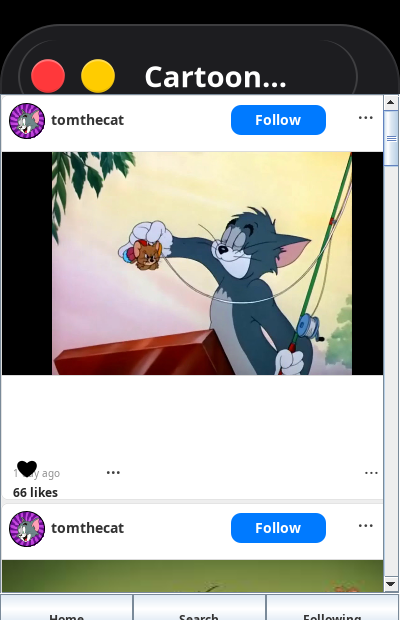
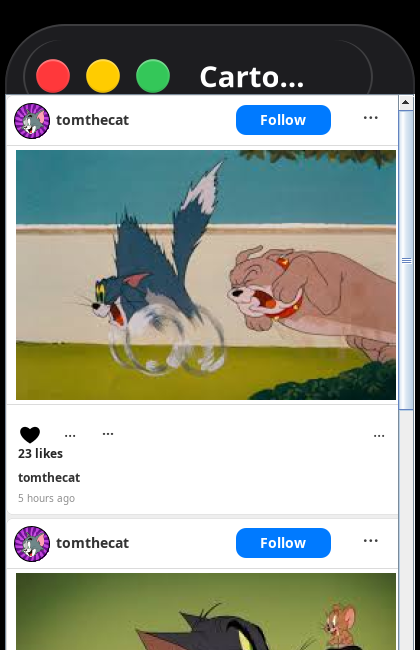
fix: dynamic button positioning, fix image overlap, convert fake PNGs to JPEG, clean resize

diff --git a/src/pk1/ProfilePanel.java b/src/pk1/ProfilePanel.java
@@ -21,7 +21,7 @@ public class ProfilePanel extends JPanel {
         this.likeCount = rng.nextInt(200) + 5;
 
         setLayout(null);
-        setPreferredSize(new Dimension(400, 405));
+        setPreferredSize(new Dimension(400, 420));
         setBackground(new Color(255, 255, 255, 0));
 
         ProfileLabel profileLabel = new ProfileLabel(characterName, profileImagePath);
@@ -49,44 +49,15 @@ public class ProfilePanel extends JPanel {
         followSubject.attach(follower);
 
         LikeButton likeButton = new LikeButton();
-        likeButton.setBounds(8, 352, 36, 36);
+
+        photoLabel = new PhotoLabel(photoText, postImagePath, likeButton);
+        photoLabel.setBounds(0, 50, 400, 260);
+        add(photoLabel);
+
+        int btnY = 320;
+
+        likeButton.setBounds(8, btnY, 32, 32);
         add(likeButton);
-
-        JButton commentIconBtn = new JButton("\uD83D\uDCAC");
-        commentIconBtn.setFont(new Font("Segoe UI Emoji", Font.PLAIN, 18));
-        commentIconBtn.setBounds(52, 354, 36, 36);
-        commentIconBtn.setFocusPainted(false);
-        commentIconBtn.setBorderPainted(false);
-        commentIconBtn.setContentAreaFilled(false);
-        commentIconBtn.addActionListener(e -> toggleCommentSection());
-        add(commentIconBtn);
-
-        JButton shareBtn = new JButton("\u27A8");
-        shareBtn.setFont(new Font("Arial", Font.BOLD, 16));
-        shareBtn.setBounds(94, 354, 36, 36);
-        shareBtn.setFocusPainted(false);
-        shareBtn.setBorderPainted(false);
-        shareBtn.setContentAreaFilled(false);
-        shareBtn.setForeground(Color.DARK_GRAY);
-        add(shareBtn);
-
-        JButton bookmarkBtn = new JButton("\u2661");
-        bookmarkBtn.setFont(new Font("Arial", Font.PLAIN, 18));
-        bookmarkBtn.setBounds(350, 354, 40, 36);
-        bookmarkBtn.setFocusPainted(false);
-        bookmarkBtn.setBorderPainted(false);
-        bookmarkBtn.setContentAreaFilled(false);
-        bookmarkBtn.setForeground(Color.DARK_GRAY);
-        bookmarkBtn.addActionListener(e -> {
-            bookmarkBtn.setText(bookmarkBtn.getText().equals("\u2661") ? "\u2665" : "\u2661");
-        });
-        add(bookmarkBtn);
-
-        likesLabel = new JLabel(likeCount + " likes");
-        likesLabel.setFont(new Font("Arial", Font.BOLD, 12));
-        likesLabel.setBounds(12, 388, 200, 18);
-        likesLabel.setForeground(new Color(38, 38, 38));
-        add(likesLabel);
 
         likeButton.addActionListener(e -> {
             if (likeButton.isLiked()) {
@@ -97,19 +68,52 @@ public class ProfilePanel extends JPanel {
             likesLabel.setText(likeCount + " likes");
         });
 
-        photoLabel = new PhotoLabel(photoText, postImagePath, likeButton);
-        photoLabel.setBounds(0, 50, 400, 290);
-        add(photoLabel);
+        JButton commentIconBtn = new JButton("\uD83D\uDCAC");
+        commentIconBtn.setFont(new Font("Segoe UI Emoji", Font.PLAIN, 16));
+        commentIconBtn.setBounds(48, btnY - 1, 32, 32);
+        commentIconBtn.setFocusPainted(false);
+        commentIconBtn.setBorderPainted(false);
+        commentIconBtn.setContentAreaFilled(false);
+        commentIconBtn.addActionListener(e -> toggleCommentSection());
+        add(commentIconBtn);
+
+        JButton shareBtn = new JButton("\u27A8");
+        shareBtn.setFont(new Font("Arial", Font.BOLD, 14));
+        shareBtn.setBounds(86, btnY - 1, 32, 32);
+        shareBtn.setFocusPainted(false);
+        shareBtn.setBorderPainted(false);
+        shareBtn.setContentAreaFilled(false);
+        shareBtn.setForeground(Color.DARK_GRAY);
+        add(shareBtn);
+
+        JButton bookmarkBtn = new JButton("\u2661");
+        bookmarkBtn.setFont(new Font("Arial", Font.PLAIN, 16));
+        bookmarkBtn.setBounds(355, btnY - 1, 36, 32);
+        bookmarkBtn.setFocusPainted(false);
+        bookmarkBtn.setBorderPainted(false);
+        bookmarkBtn.setContentAreaFilled(false);
+        bookmarkBtn.setForeground(Color.DARK_GRAY);
+        bookmarkBtn.addActionListener(e -> {
+            bookmarkBtn.setText(bookmarkBtn.getText().equals("\u2661") ? "\u2665" : "\u2661");
+        });
+        add(bookmarkBtn);
+
+        int infoY = btnY + 30;
+        likesLabel = new JLabel(likeCount + " likes");
+        likesLabel.setFont(new Font("Arial", Font.BOLD, 12));
+        likesLabel.setBounds(12, infoY, 200, 16);
+        likesLabel.setForeground(new Color(38, 38, 38));
+        add(likesLabel);
 
         JLabel captionLabel = new JLabel("<html><b>" + userName + "</b> " + captionText + "</html>");
         captionLabel.setFont(new Font("Arial", Font.PLAIN, 12));
-        captionLabel.setBounds(12, 395, 370, 32);
+        captionLabel.setBounds(12, infoY + 18, 370, 28);
         add(captionLabel);
 
         JLabel timestamp = new JLabel(getRandomTimestamp());
         timestamp.setFont(new Font("Arial", Font.PLAIN, 10));
         timestamp.setForeground(new Color(142, 142, 142));
-        timestamp.setBounds(12, 370, 200, 16);
+        timestamp.setBounds(12, infoY + 46, 200, 14);
         add(timestamp);
 
         commentSection = new CommentSection();
@@ -121,14 +125,6 @@ public class ProfilePanel extends JPanel {
     private String getRandomTimestamp() {
         String[] times = {"2 minutes ago", "15 minutes ago", "1 hour ago", "3 hours ago", "5 hours ago", "8 hours ago", "12 hours ago", "1 day ago"};
         return times[rng.nextInt(times.length)];
-    }
-
-    @Override
-    public void setBounds(int x, int y, int width, int height) {
-        super.setBounds(x, y, width, height);
-        if (photoLabel != null) {
-            photoLabel.updateBounds(width);
-        }
     }
 
     private void toggleCommentSection() {

diff --git a/src/pk1/PhotoLabel.java b/src/pk1/PhotoLabel.java
@@ -9,35 +9,31 @@ import javax.imageio.ImageIO;
 
 public class PhotoLabel extends JLabel {
     private static final long serialVersionUID = 1L;
-    private static final String DEFAULT_IMAGE_PATH = "C:\\path\\to\\placeholder.jpg";
-    private String photoPath;
-    private String photoText;
-    private LikeButton likeButton;
-    private BufferedImage originalImage;
 
     public PhotoLabel(String photoText, String photoPath, LikeButton likeButton) {
-        this.photoText = photoText;
-        this.photoPath = photoPath;
-        this.likeButton = likeButton;
-
+        boolean loaded = false;
         if (photoPath != null) {
             try {
                 File file = new File(photoPath);
                 if (file.exists()) {
-                    originalImage = ImageIO.read(file);
-                } else {
-                    System.err.println("Image not found at path: " + photoPath);
-                    loadDefaultImage();
+                    BufferedImage img = ImageIO.read(file);
+                    if (img != null) {
+                        Image scaled = img.getScaledInstance(380, 250, Image.SCALE_SMOOTH);
+                        setIcon(new ImageIcon(scaled));
+                        loaded = true;
+                    }
                 }
             } catch (IOException e) {
-                System.err.println("Error loading image at path: " + photoPath);
-                e.printStackTrace();
-                loadDefaultImage();
+                // fall through to text
             }
-        } else {
-            loadDefaultImage();
+        }
+        if (!loaded) {
+            setText(photoText != null ? photoText : "");
+            setHorizontalAlignment(SwingConstants.CENTER);
         }
 
+        setHorizontalAlignment(SwingConstants.CENTER);
+        setVerticalAlignment(SwingConstants.CENTER);
         setBorder(BorderFactory.createLineBorder(new Color(219, 219, 219)));
 
         addMouseListener(new java.awt.event.MouseAdapter() {
@@ -48,39 +44,5 @@ public class PhotoLabel extends JLabel {
                 }
             }
         });
-    }
-
-    public void updateBounds(int containerWidth) {
-        if (originalImage != null) {
-            int imgW = containerWidth;
-            int imgH = (int) (originalImage.getHeight(null) * ((double) containerWidth / originalImage.getWidth(null)));
-            if (imgH > 350) imgH = 350;
-            Image scaledImage = getScaledImage(originalImage, imgW, imgH);
-            setIcon(new ImageIcon(scaledImage));
-            setBounds(0, 56, containerWidth, imgH);
-        }
-    }
-
-    private void loadDefaultImage() {
-        try {
-            BufferedImage placeholder = ImageIO.read(new File(DEFAULT_IMAGE_PATH));
-            if (placeholder != null) {
-                originalImage = placeholder;
-            }
-        } catch (IOException e) {
-            setText(photoText);
-            setHorizontalAlignment(SwingConstants.CENTER);
-            setBackground(Color.WHITE);
-            setOpaque(true);
-        }
-    }
-
-    private Image getScaledImage(Image srcImg, int w, int h) {
-        BufferedImage resizedImg = new BufferedImage(w, h, BufferedImage.TYPE_INT_ARGB);
-        Graphics2D g2 = resizedImg.createGraphics();
-        g2.setRenderingHint(RenderingHints.KEY_INTERPOLATION, RenderingHints.VALUE_INTERPOLATION_BILINEAR);
-        g2.drawImage(srcImg, 0, 0, w, h, null);
-        g2.dispose();
-        return resizedImg;
     }
 }

diff --git a/src/pk1/GUIinit.java b/src/pk1/GUIinit.java
@@ -18,10 +18,10 @@ public class GUIinit extends JFrame {
 
     public GUIinit() {
         super("CartoonGram");
-        setType(javax.swing.JFrame.Type.UTILITY);
         setDefaultCloseOperation(JFrame.EXIT_ON_CLOSE);
         setLayout(new BorderLayout());
-        setResizable(false);
+        setResizable(true);
+        setMinimumSize(new Dimension(380, 500));
 
         followSubject = new FollowSubject();
         followersWindow = new FollowersWindow(this); // pass the main window reference
@@ -36,7 +36,7 @@ public class GUIinit extends JFrame {
         add(scrollPane, BorderLayout.CENTER);
         add(bottomNavBar, BorderLayout.SOUTH);
 
-        setSize(400, 620);
+        setSize(420, 700);
         setLocationRelativeTo(null);
         setVisible(true);
     }
@@ -47,11 +47,11 @@ public class GUIinit extends JFrame {
 
         String basePath = "src/pk1/";
         Object[][] characters = {
-            {"Tom", "tomthecat", basePath + "tom/pf.jpg", 4, "Description by Tom"},
-            {"Jake", "jake_adventuretime", basePath + "jake/pf.jpg", 3, "Description by Jake"},
-            {"Princess Bubblegum", "princessgumb", basePath + "princessgumb/pf.jpg", 3, "Description by Bubblegum"},
-            {"Gumball", "gumball_waterson", basePath + "gumball/pf.jpg", 3, "Description by Gumball"},
-            {"Darwin", "darwin_fishbuddy", basePath + "darwin/pf.jpg", 3, "Description by Darwin"},
+            {"Tom", "tomthecat", basePath + "tom/pf.jpg", 4, "Just caught Jerry... almost!"},
+            {"Jake", "jake_adventuretime", basePath + "jake/pf.jpg", 3, "Bacon pancakes, makin' bacon pancakes!"},
+            {"Princess Bubblegum", "princessgumb", basePath + "princessgumb/pf.jpg", 3, "Science. It works."},
+            {"Gumball", "gumball_waterson", basePath + "gumball/pf.jpg", 3, "What the what?!"},
+            {"Darwin", "darwin_fishbuddy", basePath + "darwin/pf.jpg", 3, "Just keep swimming!"},
         };
         //hashmap pentru fiecare caracter
         Map<String, FollowSubject> followSubjects = new HashMap<>();
